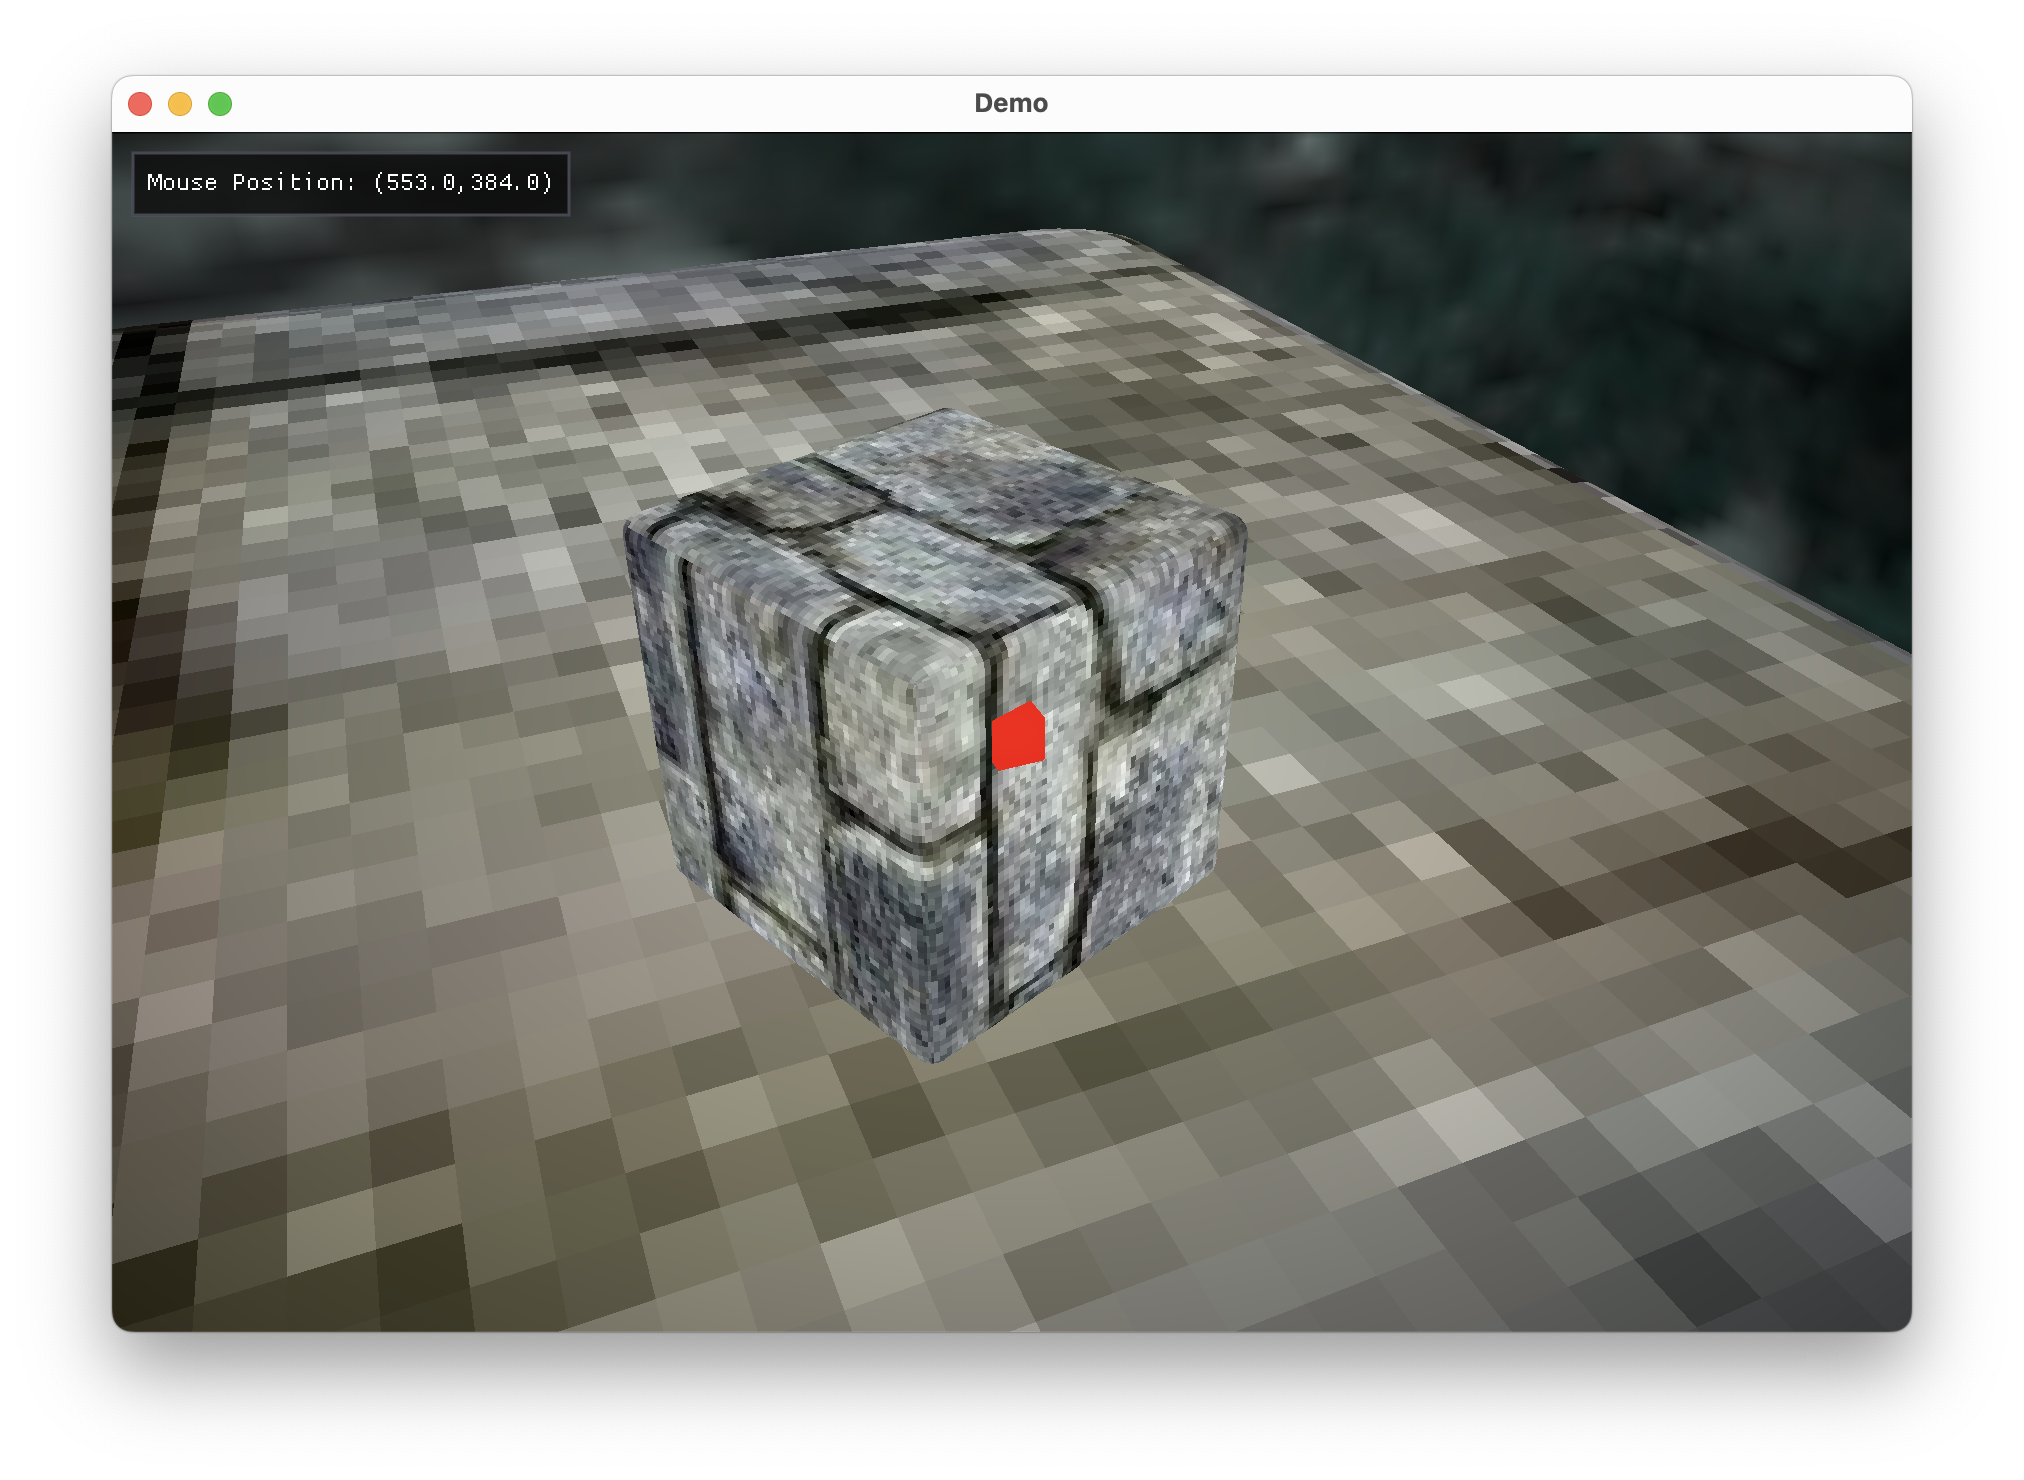
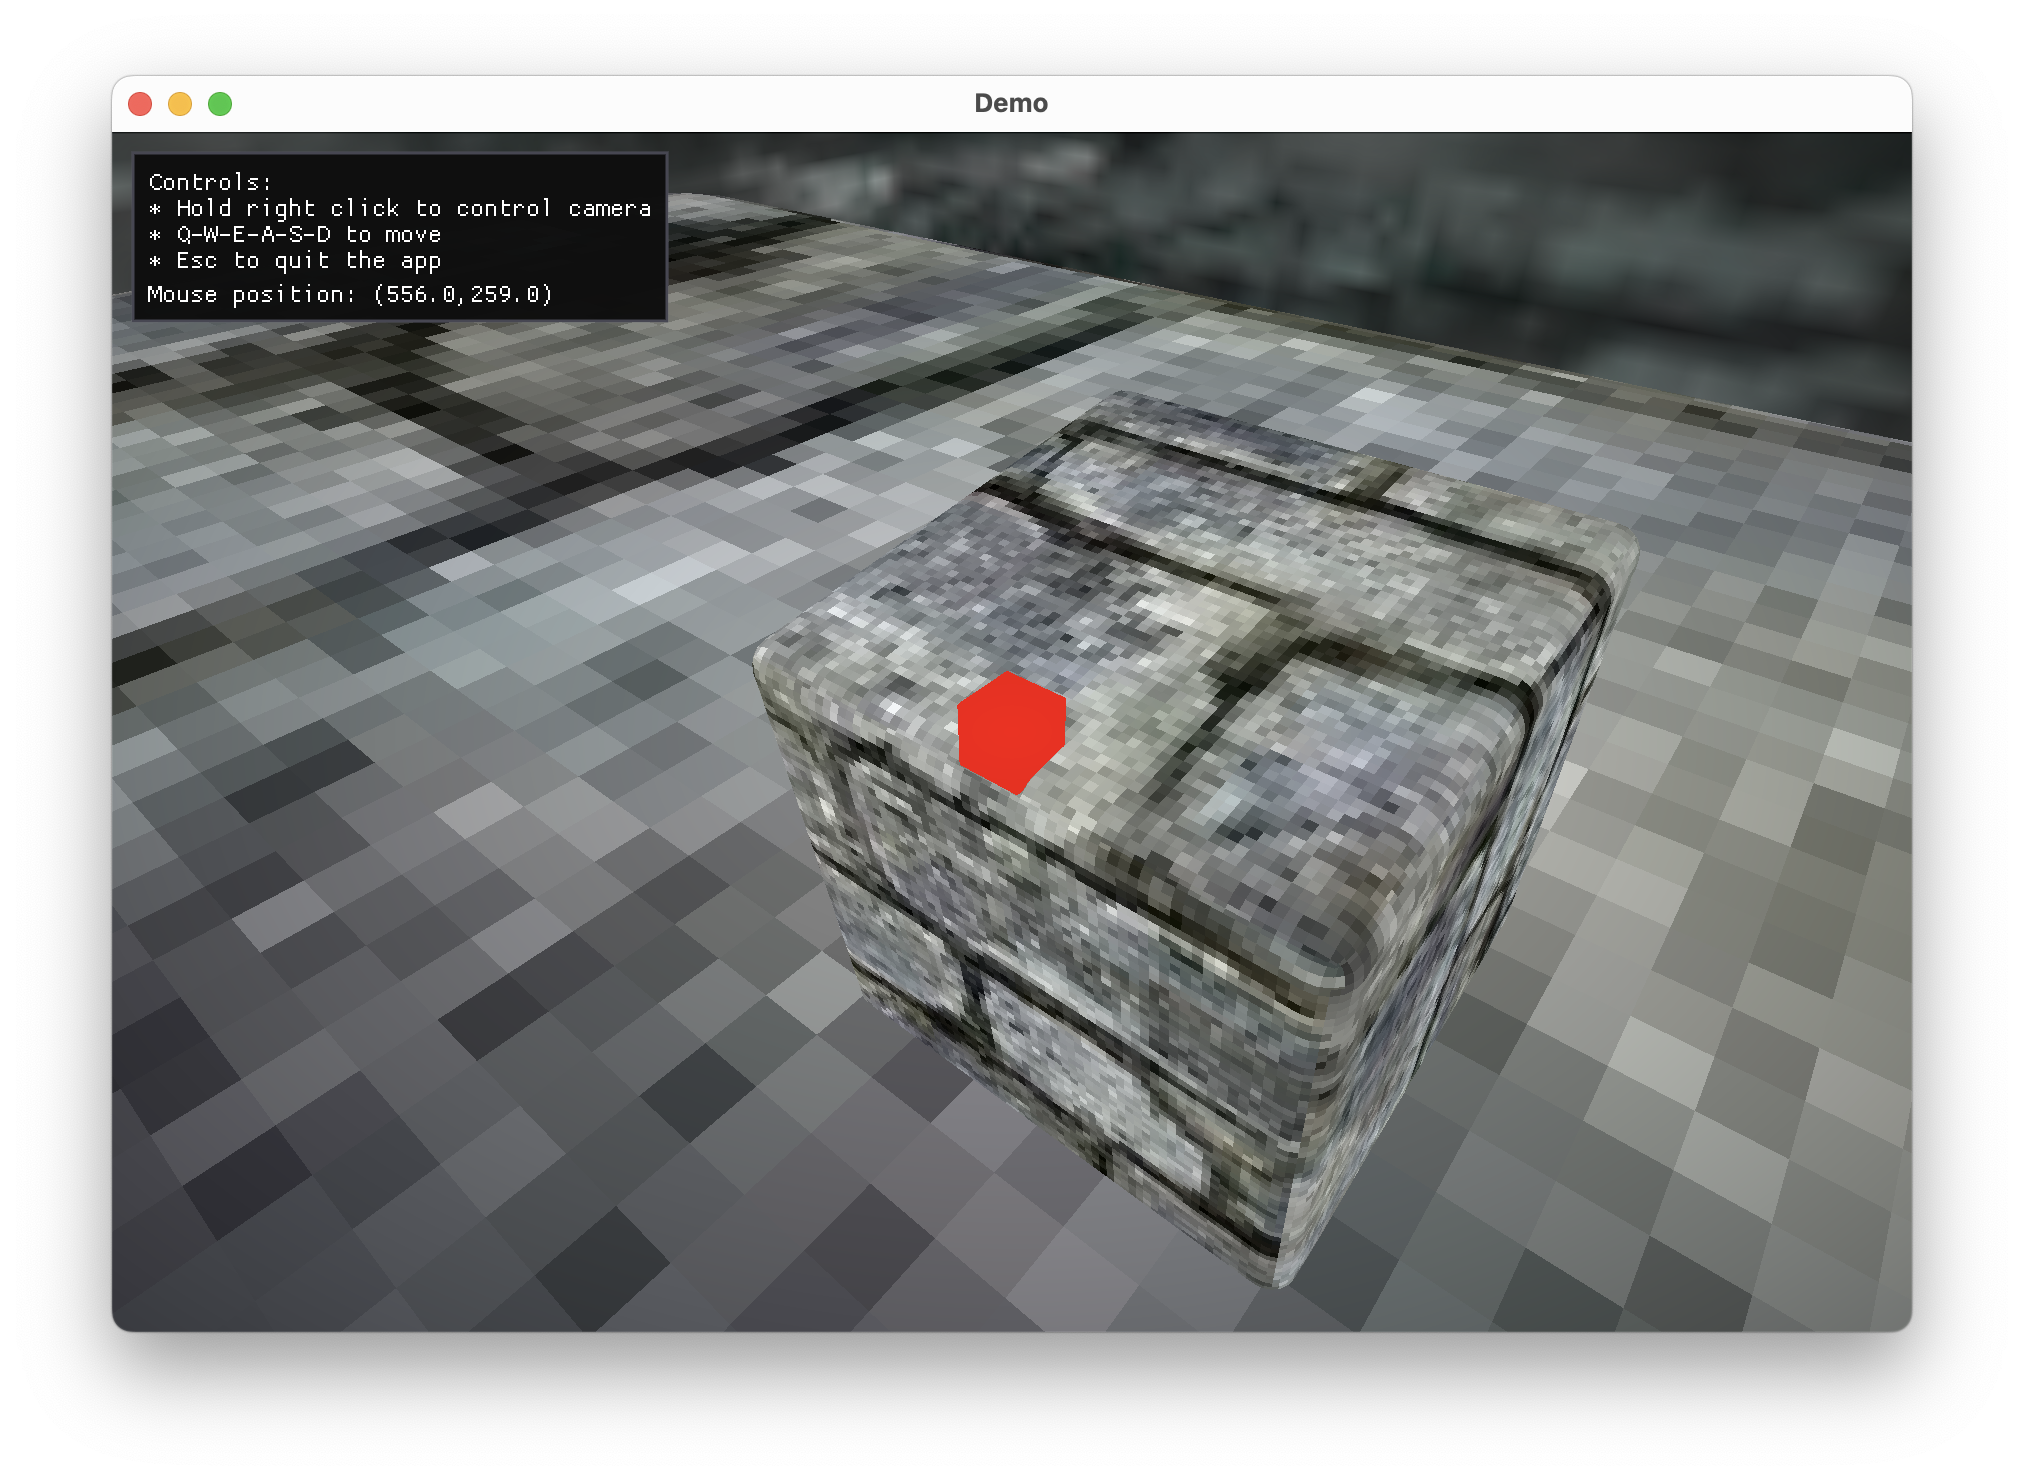
Update README and screenshot

diff --git a/README.md b/README.md
@@ -9,10 +9,11 @@ for a low-level graphics API. There is no attempt to create an "engine", everyth
 ```
 cargo run
 ```
-Right mouse click to control camera, use `W-A-S-D-Q-E` keys to fly around.
+See on-screen instructions for controls.
 
 ## Features
-- Math based on [nalgebra](https://github.com/dimforge/nalgebra).
+- App structure via [Bevy ECS](https://crates.io/crates/bevy_ecs).
+- Math via [nalgebra](https://github.com/dimforge/nalgebra).
 - First person flying camera ("spectator") with protection from overturning.
 - Physics via [Rapier](https://rapier.rs)
   - Simple rigid bodies with colliders.
@@ -22,8 +23,3 @@ Right mouse click to control camera, use `W-A-S-D-Q-E` keys to fly around.
 - Post-processing: the scene is first rendered into a texture, which is then rendered on a full-screen quad
 with a separate shader (currently applying vignette).
 - Debug UI via [ImGui](https://github.com/yatekii/imgui-wgpu-rs).
-- Rendering scene objects via WGPU's `RenderBundle` instead of directly via `RenderPass`. This proved to be _very_ useful
-if you wish to decouple scene rendering logic from render passes and make it modular. With render passes I couldn't
-make it work due to Rust borrow checker and different object lifetimes involved - as in many examples I found,
-the whole rendering code had to be within one function/block in order for lifetimes of render passes, textures and other
-things to work together.
